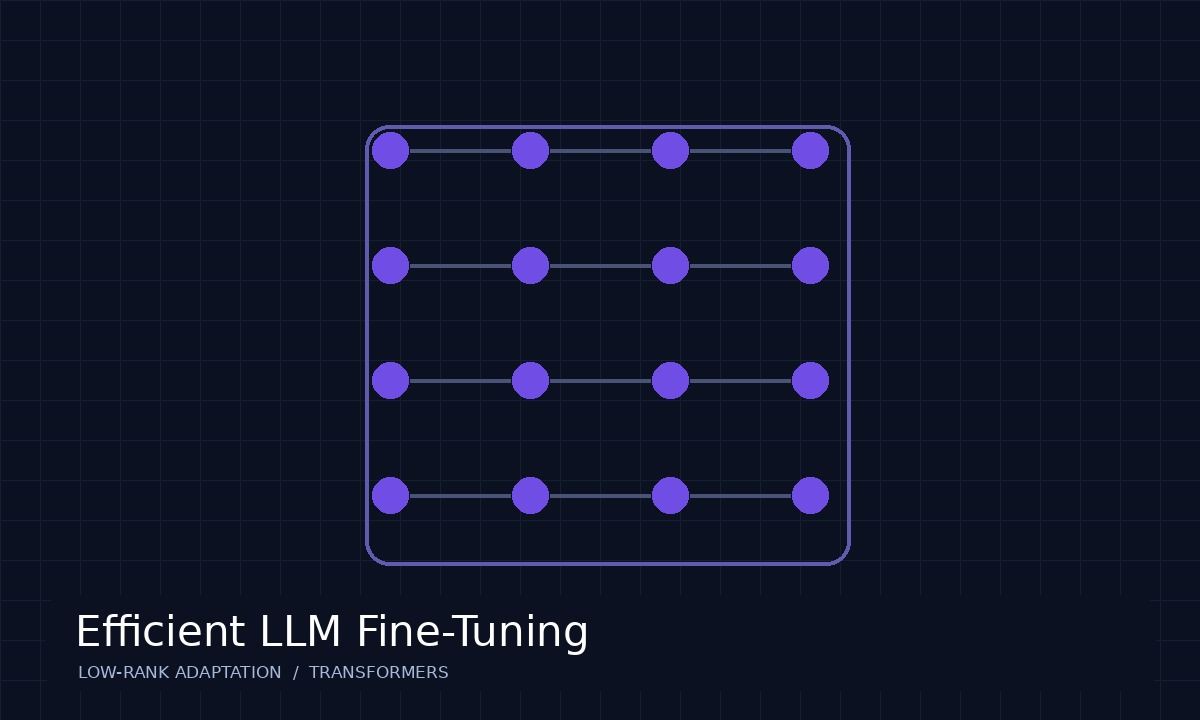
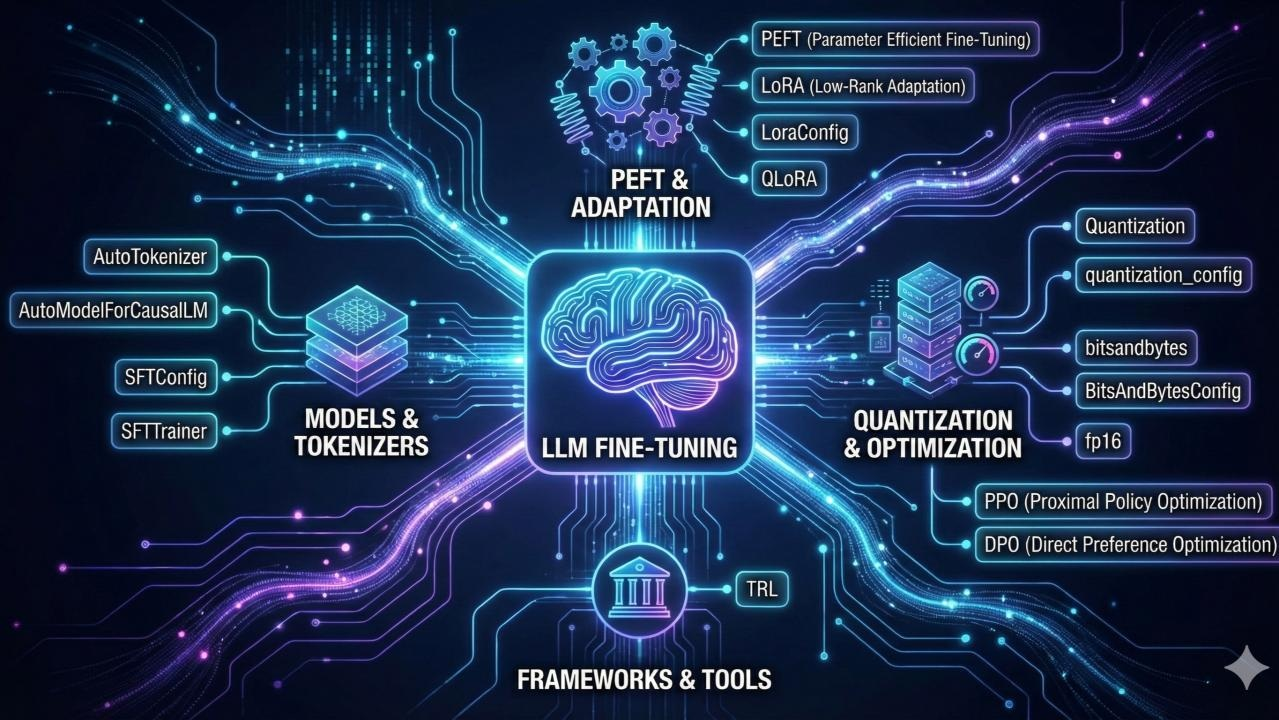
Add files via upload

diff --git a/index.html b/index.html
@@ -55,6 +55,6 @@
 <main><section class="hero dark reference-home" id="home"><canvas aria-hidden="true" class="particles"></canvas><div class="hero-inner reference-hero-inner"><p class="reference-role">Full Stack Developer</p><h1 class="reference-title"><span id="typing">🐍 Python Developer</span><span class="cursor">|</span></h1><p class="reference-description">I'm a Full-Stack Developer working with Python, FastAPI, React, Angular, and AWS. ☁ I build scalable cloud-native applications, APIs, and dashboards for enterprise solutions. 🤖 Passionate about AI/ML and automation, I enjoy creating projects that solve real-world problems. 📌 Focused on clean code, collaboration, and continuous learning.</p><a class="resume reference-resume" download href="Vinay_Kumar_Dokku_Resume.pdf">DOWNLOAD RESUME <span aria-hidden="true">⬇</span></a></div><a aria-label="Scroll to About" class="down" href="#about">⌄</a></section>
 <section class="section" id="about"><div class="section-heading"><span class="heading-icon">🎓</span><div class="heading-rule"></div><span class="ghost">ABOUT ME</span><h2>About me</h2><p>About, Skills and Education.</p></div><div aria-label="About tabs" class="tabs" role="tablist"><button aria-selected="true" class="selected" data-tab="bio" role="tab">ABOUT</button><button aria-selected="false" data-tab="skills" role="tab">SKILL</button><button aria-selected="false" data-tab="study" role="tab">EDUCATION</button></div><div class="tab-panel active" id="bio"><img alt="Vinay Kumar Dokku" class="portrait" src="profile.jpg"/><h3>Vinay Kumar Dokku <span class="muted">— 💻 Software Developer · 🐍 Python · ☁ Cloud · 🤖 AI/ML · 🔗 APIs · ⚙ Automation</span></h3><p>Software Developer experienced in delivering production-ready applications and enterprise solutions. My work spans microservices, API development, cloud infrastructure, AI-powered document processing and modern frontend development.</p><p class="symbol-skills"><strong>🛠 IDE, Editors &amp; Tools:</strong> 💻 VS Code · 🐍 Python · ⚛ React · 🅰 Angular · 🔗 FastAPI · 🐳 Docker · ☸ Kubernetes · ☁ AWS &amp; Azure · 🗄 SQL/NoSQL · 🔄 CI/CD · 🤖 AI/ML</p><p><strong>Tools and platforms:</strong> VS Code, Git, Docker, Kubernetes, Terraform, Jenkins, GitLab CI/CD, AWS, Azure, PostgreSQL, DynamoDB, MongoDB, FastAPI, Django, React, Angular, PyTest and Selenium.</p></div><div class="tab-panel" id="skills"><div aria-label="Skills overview" class="skill-bars"><div class="skill-item"><div class="skill-name">Artificial Intelligence</div><div aria-label="Artificial Intelligence skill visualization" class="skill-track" role="img"><span class="skill-fill" style="width:88%"></span></div></div><div class="skill-item"><div class="skill-name">Python</div><div aria-label="Python skill visualization" class="skill-track" role="img"><span class="skill-fill" style="width:94%"></span></div></div><div class="skill-item"><div class="skill-name">Machine Learning</div><div aria-label="Machine Learning skill visualization" class="skill-track" role="img"><span class="skill-fill" style="width:84%"></span></div></div><div class="skill-item"><div class="skill-name">Java</div><div aria-label="Java skill visualization" class="skill-track" role="img"><span class="skill-fill" style="width:85%"></span></div></div><div class="skill-item"><div class="skill-name">Data Science</div><div aria-label="Data Science skill visualization" class="skill-track" role="img"><span class="skill-fill" style="width:84%"></span></div></div><div class="skill-item"><div class="skill-name">HTML / CSS</div><div aria-label="HTML / CSS skill visualization" class="skill-track" role="img"><span class="skill-fill" style="width:90%"></span></div></div><div class="skill-item"><div class="skill-name">ETL / ELT Pipelines</div><div aria-label="ETL / ELT Pipelines skill visualization" class="skill-track" role="img"><span class="skill-fill" style="width:83%"></span></div></div><div class="skill-item"><div class="skill-name">TypeScript / JavaScript</div><div aria-label="TypeScript / JavaScript skill visualization" class="skill-track" role="img"><span class="skill-fill" style="width:89%"></span></div></div><div class="skill-item"><div class="skill-name">Microservices &amp; APIs</div><div aria-label="Microservices &amp; APIs skill visualization" class="skill-track" role="img"><span class="skill-fill" style="width:90%"></span></div></div><div class="skill-item"><div class="skill-name">React &amp; Angular</div><div aria-label="React &amp; Angular skill visualization" class="skill-track" role="img"><span class="skill-fill" style="width:87%"></span></div></div><div class="skill-item"><div class="skill-name">REST APIs &amp; GraphQL</div><div aria-label="REST APIs &amp; GraphQL skill visualization" class="skill-track" role="img"><span class="skill-fill" style="width:83%"></span></div></div><div class="skill-item"><div class="skill-name">SQL &amp; NoSQL Databases</div><div aria-label="SQL &amp; NoSQL Databases skill visualization" class="skill-track" role="img"><span class="skill-fill" style="width:90%"></span></div></div><div class="skill-item"><div class="skill-name">Cloud: AWS &amp; Azure</div><div aria-label="Cloud: AWS &amp; Azure skill visualization" class="skill-track" role="img"><span class="skill-fill" style="width:88%"></span></div></div><div class="skill-item"><div class="skill-name">CI/CD &amp; Docker</div><div aria-label="CI/CD &amp; Docker skill visualization" class="skill-track" role="img"><span class="skill-fill" style="width:84%"></span></div></div></div></div><div class="tab-panel" id="study"><div class="reference-education-timeline"><div aria-hidden="true" class="timeline-cap">🎓</div><article class="ref-edu-entry left"><span class="ref-dot"></span><div class="ref-edu-content"><h3>Ph.D. — Artificial Intelligence</h3><p class="ref-school">University of the Cumberlands, USA</p><p class="ref-year">In progress</p></div></article><article class="ref-edu-entry right"><span class="ref-dot"></span><div class="ref-edu-content"><h3>Master of Science (M.S.), Information Technology Project Management</h3><p class="ref-school">Wilmington University, Delaware, USA</p><p class="ref-year">Year of Completion: 2023</p></div></article><article class="ref-edu-entry left"><span class="ref-dot"></span><div class="ref-edu-content"><h3>Bachelor of Technology (B.Tech), Mechanical Engineering</h3><p class="ref-school">CMR College of Engineering &amp; Technology, India</p><p class="ref-year">Year of Completion: 2021</p></div></article></div></div></section>
 <section class="quote dark philosophy-rotator"><p id="philosophy-text" aria-live="off">“Great software is built by turning complex problems into simple, reliable experiences.”</p><span id="philosophy-attribution">— My development philosophy</span></section>
-<section class="section portfolio-new" id="portfolio"><canvas class="particles" aria-hidden="true"></canvas><div class="section-heading"><span class="heading-icon">▣</span><div class="heading-rule"></div><span class="ghost">MY PORTFOLIO</span><h2>My Portfolio</h2><p>Selected projects in AI, machine learning, and web development. Click a project to explore its code on GitHub.</p></div><div class="portfolio-cards"><a aria-label="View Efficient LLM Fine-Tuning (LoRA) on GitHub" class="portfolio-card portfolio-card-01" href="https://github.com/VinaykumarDokku/Efficient-LLM-Fine-Tuning-LoRA-Vinay" rel="noopener noreferrer" target="_blank"><img alt="Illustrative graphic of a neural network" class="portfolio-thumbnail" loading="lazy" src="portfolio-lora.jpg"/><div class="portfolio-overlay"><span class="overlay-kicker">Python · Transformers · LoRA</span><h3>Efficient LLM Fine-Tuning (LoRA)</h3><p>Parameter-efficient adaptation of language models.</p><span class="overlay-more">VIEW ON GITHUB ↗</span></div></a><a aria-label="View NYC ML Platform on GitHub" class="portfolio-card portfolio-card-02" href="https://github.com/VinaykumarDokku/NYC-ML-Platform-Vinay" rel="noopener noreferrer" target="_blank"><img alt="Illustrative machine learning prediction chart" class="portfolio-thumbnail" loading="lazy" src="portfolio-nyc.jpg"/><div class="portfolio-overlay"><span class="overlay-kicker">Python · Machine Learning · API</span><h3>NYC ML Platform</h3><p>Machine learning workflows for NYC pricing predictions.</p><span class="overlay-more">VIEW ON GITHUB ↗</span></div></a><a aria-label="View AI Music Generation on GitHub" class="portfolio-card portfolio-card-03" href="https://github.com/VinaykumarDokku/AI-Music-Generation" rel="noopener noreferrer" target="_blank"><img alt="User-provided Jupyter notebook screenshot" class="portfolio-thumbnail" loading="lazy" src="portfolio-AI-Music-Generation.jpg"/><div class="portfolio-overlay"><span class="overlay-kicker">Python · Music21 · Keras</span><h3>AI Music Generation</h3><p>Exploring algorithmic music generation with neural networks.</p><span class="overlay-more">VIEW ON GITHUB ↗</span></div></a><article aria-label="AI Image Caption Bot project preview" class="portfolio-card portfolio-card-04"><img alt="User-provided image captioning results screenshot" class="portfolio-thumbnail" loading="lazy" src="portfolio-AI-Image-Caption-Bot.jpg"/><div class="portfolio-overlay"><span class="overlay-kicker">Computer Vision · NLP</span><h3>AI Image Caption Bot</h3><p>Generate natural-language descriptions of images.</p><span class="overlay-more">PROJECT PREVIEW</span></div></article><a aria-label="View URL Shortener on GitHub" class="portfolio-card portfolio-card-05" href="https://github.com/VinaykumarDokku/URL-Shortner" rel="noopener noreferrer" target="_blank"><img alt="User-provided URL shortener screenshot" class="portfolio-thumbnail" loading="lazy" src="portfolio-URL-Shortner.jpg"/><div class="portfolio-overlay"><span class="overlay-kicker">Web App · URL Routing</span><h3>URL Shortener</h3><p>A simple interface for creating shortened links.</p><span class="overlay-more">VIEW ON GITHUB ↗</span></div></a><a aria-label="View E-Commerce Site on GitHub" class="portfolio-card portfolio-card-06" href="https://github.com/VinaykumarDokku/E-Commerce-Site" rel="noopener noreferrer" target="_blank"><img alt="User-provided e-commerce site screenshot" class="portfolio-thumbnail" loading="lazy" src="portfolio-E-Commerce-Site.jpg"/><div class="portfolio-overlay"><span class="overlay-kicker">Web Development · E-Commerce</span><h3>E-Commerce Site</h3><p>A product gallery and shopping experience.</p><span class="overlay-more">VIEW ON GITHUB ↗</span></div></a></div></section><section class="section experience experience-interactive" id="experience"><canvas class="particles" aria-hidden="true"></canvas><div class="section-heading"><span class="heading-icon">✦</span><div class="heading-rule"></div><span class="ghost">MY EXPERIENCE</span><h2>My Experience</h2><p>Hover over or select a company to see my work and responsibilities.</p></div><div class="experience-flip-grid"><button aria-label="Bank of America: show responsibilities" aria-pressed="false" class="experience-flip" type="button"><span class="flip-front"><strong class="flip-company">Bank of America</strong><span class="flip-role">Software Developer</span><span class="flip-dates">February 2025 – Present</span><span class="flip-hint">Hover or click to view experience</span></span><span class="flip-back"><strong class="flip-project">Credit Risk – OneCredit Exposure Management</strong><ul><li>Built Django, FastAPI and Node.js microservices for credit risk exposure tracking.</li><li>Developed regulatory APIs and Airflow data pipelines.</li><li>Optimized PostgreSQL services and deployed with Docker, Jenkins and Kubernetes.</li><li>Integrated AWS Lambda/S3 and automated testing with PyTest.</li></ul></span></button><button aria-label="Delta Dental: show responsibilities" aria-pressed="false" class="experience-flip" type="button"><span class="flip-front"><strong class="flip-company">Delta Dental</strong><span class="flip-role">Software Developer</span><span class="flip-dates">August 2023 – February 2025</span><span class="flip-hint">Hover or click to view experience</span></span><span class="flip-back"><strong class="flip-project">PACE · Clinical AI</strong><ul><li>Built FastAPI services and Angular dashboards for contract pricing and compliance.</li><li>Created LLM workflows for PDF extraction, contract intelligence and impact tracking.</li><li>Developed React-based clinical PDF processing with AWS SageMaker.</li><li>Integrated GraphQL, PostgreSQL, Azure and secure authentication.</li></ul></span></button><button aria-label="DXC Technology: show responsibilities" aria-pressed="false" class="experience-flip" type="button"><span class="flip-front"><strong class="flip-company">DXC Technology</strong><span class="flip-role">Software Developer</span><span class="flip-dates">January 2020 – June 2022</span><span class="flip-hint">Hover or click to view experience</span></span><span class="flip-back"><strong class="flip-project">Sales Training Portal · Hyderabad, India</strong><ul><li>Developed a React and Chakra UI training portal with search and video filtering.</li><li>Integrated ALM, PodBean and Vimeo through authenticated REST APIs.</li><li>Improved response times with caching and optimized API requests.</li><li>Deployed Docker applications on AWS EC2 with IAM security.</li></ul></span></button></div></section>
+<section class="section portfolio-new" id="portfolio"><canvas class="particles" aria-hidden="true"></canvas><div class="section-heading"><span class="heading-icon">▣</span><div class="heading-rule"></div><span class="ghost">MY PORTFOLIO</span><h2>My Portfolio</h2><p>Selected projects in AI, machine learning, and web development. Click a project to explore its code on GitHub.</p></div><div class="portfolio-cards"><a aria-label="View Efficient LLM Fine-Tuning (LoRA) on GitHub" class="portfolio-card portfolio-card-01" href="https://github.com/VinaykumarDokku/Efficient-LLM-Fine-Tuning-LoRA-Vinay" rel="noopener noreferrer" target="_blank"><img alt="LLM fine-tuning LoRA architecture supplied by project owner" class="portfolio-thumbnail" loading="lazy" src="portfolio-lora.jpg"/><div class="portfolio-overlay"><span class="overlay-kicker">Python · Transformers · LoRA</span><h3>Efficient LLM Fine-Tuning (LoRA)</h3><p>Parameter-efficient adaptation of language models.</p><span class="overlay-more">VIEW ON GITHUB ↗</span></div></a><a aria-label="View NYC ML Platform on GitHub" class="portfolio-card portfolio-card-02" href="https://github.com/VinaykumarDokku/NYC-ML-Platform-Vinay" rel="noopener noreferrer" target="_blank"><img alt="New York City Airbnb listings analytics dashboard supplied by project owner" class="portfolio-thumbnail" loading="lazy" src="portfolio-nyc.jpg"/><div class="portfolio-overlay"><span class="overlay-kicker">Python · Machine Learning · API</span><h3>NYC ML Platform</h3><p>Machine learning workflows for NYC pricing predictions.</p><span class="overlay-more">VIEW ON GITHUB ↗</span></div></a><a aria-label="View AI Music Generation on GitHub" class="portfolio-card portfolio-card-03" href="https://github.com/VinaykumarDokku/AI-Music-Generation" rel="noopener noreferrer" target="_blank"><img alt="User-provided Jupyter notebook screenshot" class="portfolio-thumbnail" loading="lazy" src="portfolio-AI-Music-Generation.jpg"/><div class="portfolio-overlay"><span class="overlay-kicker">Python · Music21 · Keras</span><h3>AI Music Generation</h3><p>Exploring algorithmic music generation with neural networks.</p><span class="overlay-more">VIEW ON GITHUB ↗</span></div></a><article aria-label="AI Image Caption Bot project preview" class="portfolio-card portfolio-card-04"><img alt="User-provided image captioning results screenshot" class="portfolio-thumbnail" loading="lazy" src="portfolio-AI-Image-Caption-Bot.jpg"/><div class="portfolio-overlay"><span class="overlay-kicker">Computer Vision · NLP</span><h3>AI Image Caption Bot</h3><p>Generate natural-language descriptions of images.</p><span class="overlay-more">PROJECT PREVIEW</span></div></article><a aria-label="View URL Shortener on GitHub" class="portfolio-card portfolio-card-05" href="https://github.com/VinaykumarDokku/URL-Shortner" rel="noopener noreferrer" target="_blank"><img alt="User-provided URL shortener screenshot" class="portfolio-thumbnail" loading="lazy" src="portfolio-URL-Shortner.jpg"/><div class="portfolio-overlay"><span class="overlay-kicker">Web App · URL Routing</span><h3>URL Shortener</h3><p>A simple interface for creating shortened links.</p><span class="overlay-more">VIEW ON GITHUB ↗</span></div></a><a aria-label="View E-Commerce Site on GitHub" class="portfolio-card portfolio-card-06" href="https://github.com/VinaykumarDokku/E-Commerce-Site" rel="noopener noreferrer" target="_blank"><img alt="User-provided e-commerce site screenshot" class="portfolio-thumbnail" loading="lazy" src="portfolio-E-Commerce-Site.jpg"/><div class="portfolio-overlay"><span class="overlay-kicker">Web Development · E-Commerce</span><h3>E-Commerce Site</h3><p>A product gallery and shopping experience.</p><span class="overlay-more">VIEW ON GITHUB ↗</span></div></a></div></section><section class="section experience experience-interactive" id="experience"><canvas class="particles" aria-hidden="true"></canvas><div class="section-heading"><span class="heading-icon">✦</span><div class="heading-rule"></div><span class="ghost">MY EXPERIENCE</span><h2>My Experience</h2><p>Hover over or select a company to see my work and responsibilities.</p></div><div class="experience-flip-grid"><button aria-label="Bank of America: show responsibilities" aria-pressed="false" class="experience-flip" type="button"><span class="flip-front"><strong class="flip-company">Bank of America</strong><span class="flip-role">Software Developer</span><span class="flip-dates">February 2025 – Present</span><span class="flip-hint">Hover or click to view experience</span></span><span class="flip-back"><strong class="flip-project">Credit Risk – OneCredit Exposure Management</strong><ul><li>Built Django, FastAPI and Node.js microservices for credit risk exposure tracking.</li><li>Developed regulatory APIs and Airflow data pipelines.</li><li>Optimized PostgreSQL services and deployed with Docker, Jenkins and Kubernetes.</li><li>Integrated AWS Lambda/S3 and automated testing with PyTest.</li></ul></span></button><button aria-label="Delta Dental: show responsibilities" aria-pressed="false" class="experience-flip" type="button"><span class="flip-front"><strong class="flip-company">Delta Dental</strong><span class="flip-role">Software Developer</span><span class="flip-dates">August 2023 – February 2025</span><span class="flip-hint">Hover or click to view experience</span></span><span class="flip-back"><strong class="flip-project">PACE · Clinical AI</strong><ul><li>Built FastAPI services and Angular dashboards for contract pricing and compliance.</li><li>Created LLM workflows for PDF extraction, contract intelligence and impact tracking.</li><li>Developed React-based clinical PDF processing with AWS SageMaker.</li><li>Integrated GraphQL, PostgreSQL, Azure and secure authentication.</li></ul></span></button><button aria-label="DXC Technology: show responsibilities" aria-pressed="false" class="experience-flip" type="button"><span class="flip-front"><strong class="flip-company">DXC Technology</strong><span class="flip-role">Software Developer</span><span class="flip-dates">January 2020 – June 2022</span><span class="flip-hint">Hover or click to view experience</span></span><span class="flip-back"><strong class="flip-project">Sales Training Portal · Hyderabad, India</strong><ul><li>Developed a React and Chakra UI training portal with search and video filtering.</li><li>Integrated ALM, PodBean and Vimeo through authenticated REST APIs.</li><li>Improved response times with caching and optimized API requests.</li><li>Deployed Docker applications on AWS EC2 with IAM security.</li></ul></span></button></div></section>
 <section class="section" id="education"><div class="section-heading"><span class="heading-icon">🏆</span><div class="heading-rule"></div><span class="ghost">MY EDUCATION</span><h2>My Education</h2><p>Educational background.</p></div><div class="sreeja-edu-grid"><article class="sreeja-edu-card"><img alt="Illustrative emblem for University of the Cumberlands" loading="lazy" src="education-cumberlands.png"/><h3>Ph.D. in Artificial Intelligence</h3><p class="edu-university">University of the Cumberlands</p><p class="edu-year">In progress</p></article><article class="sreeja-edu-card"><img alt="Illustrative emblem for Wilmington University" loading="lazy" src="education-wilmington.png"/><h3>M.S. in Information Technology Project Management</h3><p class="edu-university">Wilmington University</p><p class="edu-year">Completed 2023</p></article><article class="sreeja-edu-card"><img alt="Illustrative emblem for CMR College of Engineering &amp; Technology" loading="lazy" src="education-cmr.png"/><h3>B.Tech in Mechanical Engineering</h3><p class="edu-university">CMR College of Engineering &amp; Technology</p><p class="edu-year">Completed 2021</p></article></div></section>
 <section class="section contact dark" id="contact"><canvas aria-hidden="true" class="particles"></canvas><div class="contact-inner"><div class="section-heading"><span class="heading-icon">♧</span><div class="heading-rule"></div><span class="ghost">CONTACT ME</span><h2>Contact me</h2><p>Address, Phone Number and Email Address.</p></div><div class="contact-grid"><div class="contact-item"><span aria-hidden="true" class="contact-icon">⌖</span><p>United States of America</p></div><div class="contact-item"><span aria-hidden="true" class="contact-icon">▯</span><p><a href="tel:+15714365389">+1 (571) 436-5389</a></p></div><div class="contact-item"><span aria-hidden="true" class="contact-icon">✉</span><p><a href="mailto:dokkuvinaykumar54@gmail.com">dokkuvinaykumar54@gmail.com</a></p></div></div></div></section></main><footer><div class="social"><a aria-label="Open GitHub" class="social-circle" href="https://github.com/VinaykumarDokku" rel="noopener noreferrer" target="_blank" title="Open GitHub"><svg aria-hidden="true" fill="none" height="25" stroke="currentColor" stroke-linecap="round" stroke-linejoin="round" stroke-width="1.8" viewbox="0 0 24 24" width="25"><path d="M9 19c-4.3 1.4-4.3-2.5-6-3m12 6v-3.9a3.4 3.4 0 0 0-.9-2.6c3-.3 6.2-1.4 6.2-6.8a5.2 5.2 0 0 0-1.4-3.6 4.8 4.8 0 0 0-.1-3.5S17.6 1.2 15 3a13.2 13.2 0 0 0-7 0C5.4 1.2 4.2 1.6 4.2 1.6a4.8 4.8 0 0 0-.1 3.5 5.2 5.2 0 0 0-1.4 3.6c0 5.4 3.2 6.5 6.2 6.8A3.4 3.4 0 0 0 8 18.1V22"></path></svg></a><a aria-label="Open LinkedIn" class="social-circle" href="https://www.linkedin.com/in/vinay-kumar-702b4b2b5/" rel="noopener noreferrer" target="_blank" title="Open LinkedIn"><svg aria-hidden="true" fill="none" height="25" stroke="currentColor" stroke-linecap="round" stroke-linejoin="round" stroke-width="1.8" viewbox="0 0 24 24" width="25"><rect height="13" rx="1" width="4" x="2" y="9"></rect><circle cx="4" cy="4" r="2"></circle><path d="M10 22V9h4v2c1-2 7-3 7 4v7h-4v-7c0-3-3-3-3 0v7z"></path></svg></a><a aria-label="Download CV" class="social-circle" download="Vinay_Kumar_Dokku_Resume.pdf" href="Vinay_Kumar_Dokku_Resume.pdf" title="Download CV"><svg aria-hidden="true" fill="none" height="25" stroke="currentColor" stroke-linecap="round" stroke-linejoin="round" stroke-width="1.8" viewbox="0 0 24 24" width="25"><path d="M7 2h7l5 5v15H7a2 2 0 0 1-2-2V4a2 2 0 0 1 2-2z"></path><path d="M14 2v6h6M9 13h7M9 17h7"></path></svg></a><a aria-label="Send email" class="social-circle" href="mailto:dokkuvinaykumar54@gmail.com" title="Send email"><svg aria-hidden="true" fill="none" height="25" stroke="currentColor" stroke-linecap="round" stroke-linejoin="round" stroke-width="1.8" viewbox="0 0 24 24" width="25"><rect height="16" rx="2" width="20" x="2" y="4"></rect><path d="m3 6 9 7 9-7"></path></svg></a></div><p>Designed and developed by Vinay Kumar Dokku</p></footer><script src="script.js?v=20261029fullresume2"></script></body></html>
